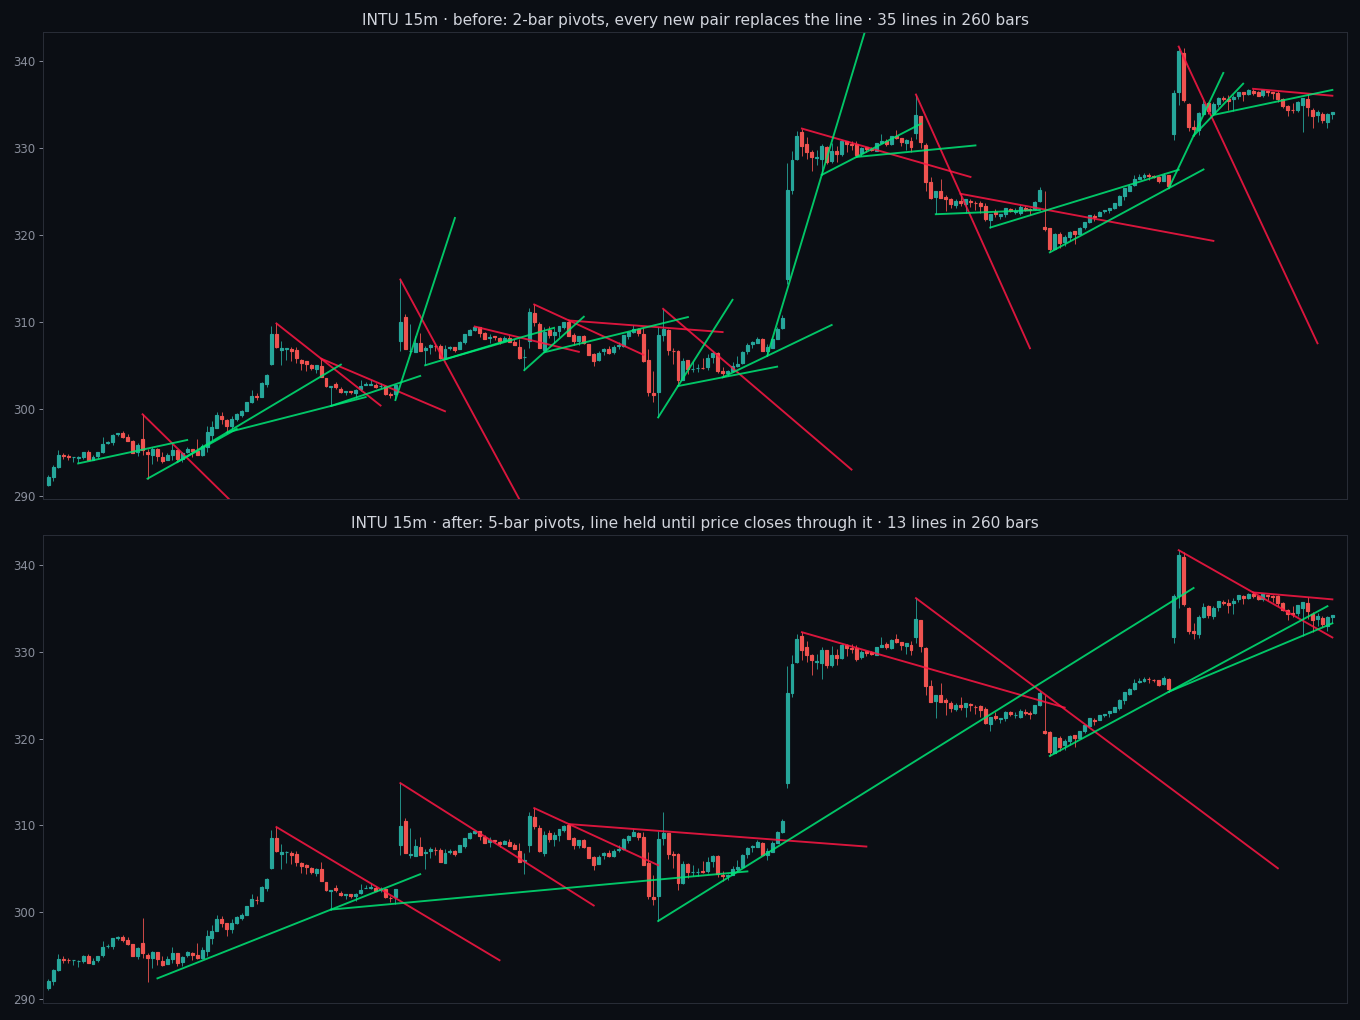
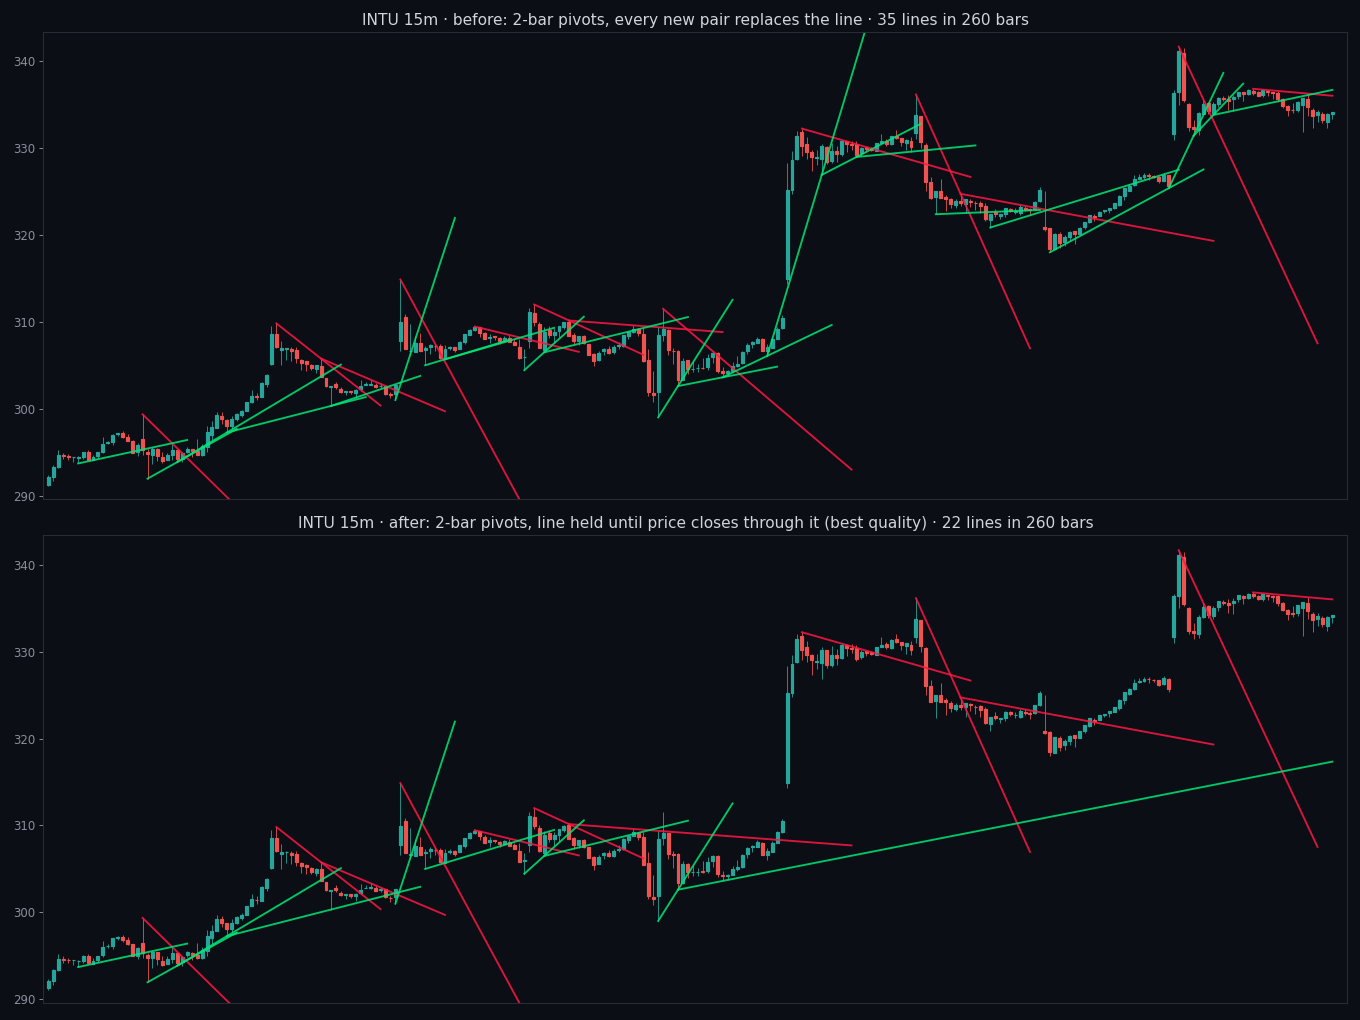
Trendlines: default 2-bar pivots WITH hold - best line quality on 5m and 15m
reports/trendline_quality.py (7 stocks, 18 settings, both halves of the dates): lines respected 2+ times before
the break and fewest fakeouts come from k=2 + hold, ranked #1 on both timeframes and both halves. The 5-bar
setting was calmer but its lines were respected less. 15m: 1.04 new lines a session (was 3.49 without hold).

diff --git a/reports/trendline_quality.py b/reports/trendline_quality.py
@@ -1,0 +1,96 @@
+"""Which trendline settings draw the BEST lines (not the most profitable): lines the market actually respects.
+
+Per setting (pivot bars k, hold-until-broken), over every line drawn:
+  touches   : bars that came within 0.1 ATR(14) of the line WITHOUT closing through it, before it broke  (more = better)
+  respected : share of lines touched at least twice before breaking                                     (more = better)
+  fakeouts  : share of breaks where price closed back on the line's side within 3 bars                  (fewer = better)
+  life      : median bars a line lives (until replaced)                                                  (longer = calmer)
+  changes   : new lines per session                                                                      (fewer = calmer)
+Score = respected% - fakeouts% (both in %, equal weight) - the two things that make a line "right".
+Checked on both halves of the dates separately: a winner must win on both.
+Data: data/intraday/<SYM>_15m.csv and <SYM>_5m_alpaca.csv, 7 stocks, 2025-04-01 .. 2026-10-22.
+"""
+import sys, pathlib, itertools
+sys.path.insert(0, str(pathlib.Path(__file__).resolve().parent.parent))
+import numpy as np, pandas as pd
+
+ROOT = pathlib.Path(__file__).resolve().parent.parent
+SYMS = ["SPY", "QQQ", "COST", "INTU", "JNJ", "UNH", "HOOD"]
+FILES = {"5m": "{s}_5m_alpaca.csv", "15m": "{s}_15m.csv"}
+GRID = list(itertools.product((2, 3, 4, 5, 6, 7, 8, 10, 12), (False, True)))
+
+
+def load(tf, s):
+    d = pd.read_csv(ROOT / "data/intraday" / FILES[tf].format(s=s))
+    t = pd.to_datetime(d["time"], utc=True).dt.tz_convert("America/New_York")
+    h, l, c = (d[x].to_numpy(float) for x in ("high", "low", "close"))
+    prev = np.r_[c[0], c[:-1]]
+    tr = np.maximum(h - l, np.maximum(np.abs(h - prev), np.abs(l - prev)))
+    atr = pd.Series(tr).ewm(alpha=1 / 14, adjust=False).mean().to_numpy()
+    return h, l, c, atr, t.dt.date.to_numpy()
+
+
+def lines(h, l, c, atr, k, hold):
+    """Every line the indicator would draw: (birth bar, end bar, touches, broke?, fakeout?)."""
+    n = len(c); out = []
+    for side, x in ((1, h), (-1, l)):
+        last = None; line = None; broke = True; touch = 0; born = 0
+        for i in range(2 * k, n):
+            p = i - k
+            w = x[p - k:p + k + 1]
+            piv = (x[p] == w.max() and (x[p - k:p] < x[p]).all()) if side == 1 else \
+                  (x[p] == w.min() and (x[p - k:p] > x[p]).all())
+            if piv:
+                ok = last is not None and (x[p] < last[1] if side == 1 else x[p] > last[1])
+                if ok and (not hold or broke or line is None):
+                    if line is not None and not broke:
+                        out.append((born, i, touch, False, False))
+                    line = (last[0], last[1], (x[p] - last[1]) / (p - last[0])); born = i; broke = False; touch = 0
+                last = (p, x[p])
+            if line is not None and not broke:
+                y = line[1] + line[2] * (i - line[0])
+                if (side == 1 and c[i] > y) or (side == -1 and c[i] < y):
+                    broke = True
+                    back = False
+                    for j in range(i + 1, min(i + 4, n)):
+                        yj = line[1] + line[2] * (j - line[0])
+                        if (side == 1 and c[j] < yj) or (side == -1 and c[j] > yj):
+                            back = True; break
+                    out.append((born, i, touch, True, back))
+                elif abs((h[i] if side == 1 else l[i]) - y) <= 0.1 * atr[i]:
+                    touch += 1
+    return out
+
+
+def measure(tf, part):
+    rows = []
+    data = {s: load(tf, s) for s in SYMS}
+    for k, hold in GRID:
+        L, sessions = [], 0
+        for s, (h, l, c, atr, day) in data.items():
+            days = np.array(sorted(set(day)))
+            cut = days[len(days) // 2]
+            m = (day < cut) if part == "A" else (day >= cut) if part == "B" else np.ones(len(day), bool)
+            sessions += len(set(day[m]))
+            for born, end, touch, broke, back in lines(h, l, c, atr, k, hold):
+                if m[born]:
+                    L.append((end - born, touch, broke, back))
+        a = np.array(L, float)
+        brk = a[a[:, 2] == 1]
+        resp = 100 * np.mean(brk[:, 1] >= 2) if len(brk) else np.nan
+        fake = 100 * np.mean(brk[:, 3]) if len(brk) else np.nan
+        rows.append({"k": k, "hold": hold, "lines": len(a), "changes/session": len(a) / sessions,
+                     "life": np.median(a[:, 0]), "touches": brk[:, 1].mean(), "respected%": resp,
+                     "fakeouts%": fake, "score": resp - fake})
+    return pd.DataFrame(rows)
+
+
+if __name__ == "__main__":
+    pd.set_option("display.width", 200)
+    for tf in ("5m", "15m"):
+        full = measure(tf, "all").sort_values("score", ascending=False)
+        a, b = measure(tf, "A"), measure(tf, "B")
+        full["rank first half"] = full.apply(lambda r: int(a.score.rank(ascending=False)[(a.k == r.k) & (a.hold == r.hold)].iloc[0]), axis=1)
+        full["rank second half"] = full.apply(lambda r: int(b.score.rank(ascending=False)[(b.k == r.k) & (b.hold == r.hold)].iloc[0]), axis=1)
+        print(f"\n===== {tf} =====")
+        print(full.to_string(index=False, float_format=lambda v: f"{v:.2f}"))

diff --git a/vzones/ranges.py b/vzones/ranges.py
@@ -4,7 +4,7 @@
   daily close outside completes the range (breakout day included) and starts the next one on the breakout day.
 - whale levels of a range: hidden 200-row volume profile of the source bars, tall columns + POC / VAH / VAL.
 - levels per trading day: last `keep` completed ranges + the forming one, built from completed days only.
-- instant trend (EMA 9/21 + DMI 7), Supertrend(10, 3), trendlines (5-bar pivots, lower-high / higher-low pair held until closed through; was 2-bar latest pair).
+- instant trend (EMA 9/21 + DMI 7), Supertrend(10, 3), trendlines (2-bar pivots, lower-high / higher-low pair held until closed through; was replaced by every new pair).
 Volume is spread evenly over each bar's high-low range, as in the Pine code.
 """
 from __future__ import annotations
@@ -121,10 +121,10 @@ def supertrend(df: pd.DataFrame, factor=3.0, n=10):
     return st, d                                               # d < 0 = up, as in Pine
 
 
-def trendline_breaks(df: pd.DataFrame, k: int = 5, hold: bool = True) -> np.ndarray:
+def trendline_breaks(df: pd.DataFrame, k: int = 2, hold: bool = True) -> np.ndarray:
     """+1 on the first close above the current red line, -1 on the first close below the current green line.
     k = pivot bars each side; hold = a new pivot pair replaces a line only after it was closed through
-    (Pine defaults since 2026-10-23: k=5, hold=True; the original was k=2, hold=False)."""
+    (Pine defaults since 2026-10-23: k=2, hold=True - best line quality, reports/trendline_quality.py; the original was k=2, hold=False)."""
     h, l, c = (df[x].to_numpy(float) for x in ("high", "low", "close")); n = len(c); out = np.zeros(n, int)
     lastH = lastL = None; dn = up = None; dnBroke = upBroke = True
     for i in range(2 * k, n):

diff --git a/reports/make_trendline_heavy_preview.py b/reports/make_trendline_heavy_preview.py
@@ -37,7 +37,7 @@ def segments(k, hold):
 BG, GR, TX, MUT = "#0b0e14", "#2a2e39", "#d1d4dc", "#8a8f9c"
 fig, axs = plt.subplots(2, 1, figsize=(16, 12), facecolor=BG)
 for ax, (k, hold, title) in zip(axs, ((2, False, "before: 2-bar pivots, every new pair replaces the line"),
-                                       (5, True, "after: 5-bar pivots, line held until price closes through it"))):
+                                       (2, True, "after: 2-bar pivots, line held until price closes through it (best quality)"))):
     ax.set_facecolor(BG); ax.tick_params(colors=MUT); [s.set_color(GR) for s in ax.spines.values()]
     for i in range(N):
         col = "#26a69a" if C[i] >= O[i] else "#ef5350"
